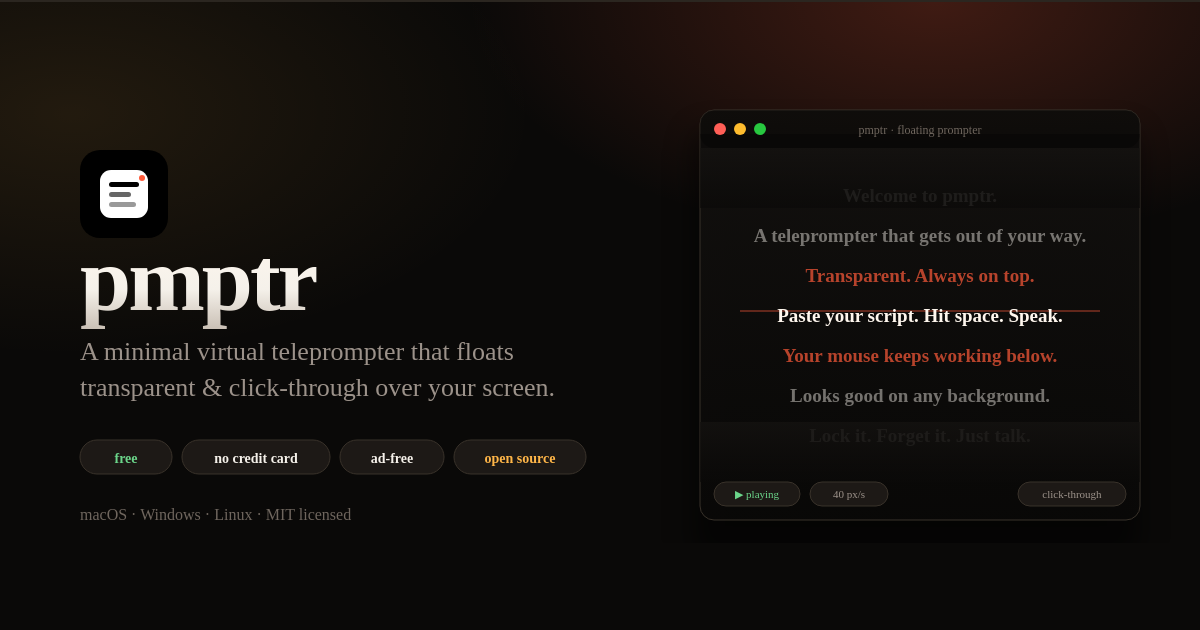
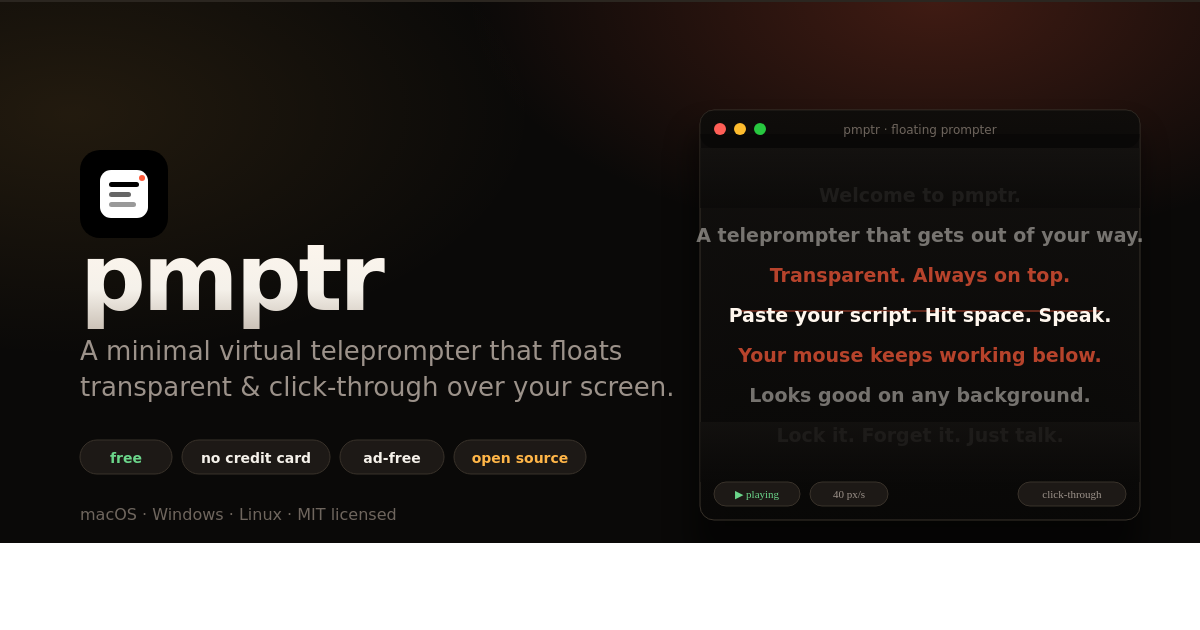
feat: infinite teleprompter demo with reading line, active line highlight, and OG font fix

diff --git a/web/script.js b/web/script.js
@@ -53,6 +53,44 @@
     document.body.removeChild(ta);
   }
 
+  // Highlight the line at the reading position in the teleprompter demo
+  var demoScroll = document.querySelector(".demo-scroll");
+  if (demoScroll) {
+    var lines = demoScroll.querySelectorAll("p");
+    var viewport = demoScroll.parentElement;
+    var readingLineY = viewport.offsetHeight / 2;
+
+    function updateActiveLine() {
+      var scrollRect = demoScroll.getBoundingClientRect();
+      var viewportRect = viewport.getBoundingClientRect();
+      var scrollTop = scrollRect.top - viewportRect.top;
+
+      var activeIndex = -1;
+      for (var i = 0; i < lines.length; i++) {
+        var lineRect = lines[i].getBoundingClientRect();
+        var lineCenter = lineRect.top + lineRect.height / 2 - viewportRect.top;
+        if (Math.abs(lineCenter - readingLineY) < lineRect.height / 2) {
+          activeIndex = i;
+          break;
+        }
+      }
+
+      for (var i = 0; i < lines.length; i++) {
+        if (i === activeIndex) {
+          lines[i].classList.add("active");
+        } else {
+          lines[i].classList.remove("active");
+        }
+      }
+    }
+
+    function tick() {
+      updateActiveLine();
+      requestAnimationFrame(tick);
+    }
+    tick();
+  }
+
   // Subtle fade-in on scroll for sections
   if ("IntersectionObserver" in window) {
     var io = new IntersectionObserver(

diff --git a/web/styles.css b/web/styles.css
@@ -319,28 +319,40 @@ main {
   align-items: center;
   justify-content: center;
 }
+.demo-reading-line {
+  position: absolute;
+  left: 26px;
+  right: 26px;
+  top: 50%;
+  height: 2px;
+  background: linear-gradient(90deg, transparent 0%, var(--accent-2) 20%, var(--accent-2) 80%, transparent 100%);
+  transform: translateY(-50%);
+  z-index: 2;
+  pointer-events: none;
+  box-shadow: 0 0 12px rgba(255, 182, 72, 0.5);
+}
 .demo-viewport::after {
   content: "";
   position: absolute;
   inset: 0;
   pointer-events: none;
   background: linear-gradient(180deg, var(--bg-2) 0%, transparent 22%, transparent 78%, var(--bg-2) 100%);
+  z-index: 1;
 }
 .demo-scroll {
   font: 600 22px/1.9 -apple-system, BlinkMacSystemFont, "Segoe UI", Roboto, sans-serif;
   color: var(--fg);
   text-align: center;
   white-space: nowrap;
-  animation: demo-scroll 18s linear infinite;
+  animation: demo-scroll 24s linear infinite;
 }
 .demo-scroll p {
   margin: 0;
   height: 1.9em;
+  color: rgba(245, 241, 234, 0.5);
+  transition: color 200ms ease;
 }
-.demo-scroll p:nth-child(odd) {
-  color: #fff7ee;
-}
-.demo-scroll p:nth-child(even) {
+.demo-scroll p.active {
   color: var(--accent);
 }
 @keyframes demo-scroll {

diff --git a/web/index.html b/web/index.html
@@ -87,6 +87,7 @@
                 <span class="demo-title">pmptr · floating prompter</span>
               </div>
               <div class="demo-viewport">
+                <div class="demo-reading-line"></div>
                 <div class="demo-scroll">
                   <p>Welcome to pmptr.</p>
                   <p>A teleprompter that gets out of your way.</p>
@@ -100,6 +101,10 @@
                   <p>A teleprompter that gets out of your way.</p>
                   <p>Transparent. Always on top. Click-through.</p>
                   <p>Paste your script. Hit space. Speak.</p>
+                  <p>Your mouse keeps working on whatever is below.</p>
+                  <p>Looks good on any background, bright or dark.</p>
+                  <p>Tune speed, size, color, opacity, mirror.</p>
+                  <p>Lock it. Forget it. Just talk.</p>
                 </div>
               </div>
               <div class="demo-hud">